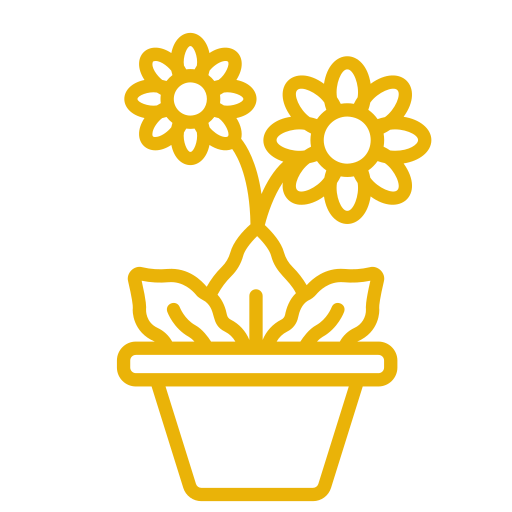
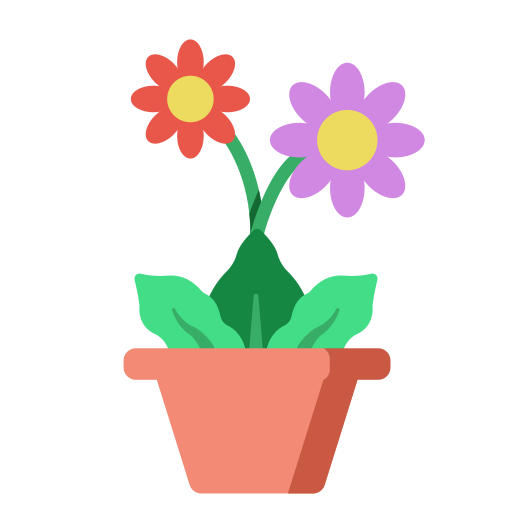
added new images and redefined variables for products

diff --git a/Cvećara/dist/index.html b/Cvećara/dist/index.html
@@ -53,7 +53,7 @@
                     <div id="productContainer" class="flex pt-5 pl-5 pr-5 md:w-[90%] lg:w-[55%] flex-row gap-3 justify-center items-center">
                         <div class="product w-[45%] lg:w-[31%] border border-white rounded-md">
                             <div class=" flex justify-center items-center">
-                                <img src="../images/rose-product.png" alt="" class="h-[2.5rem] lg:h-[4rem] mt-5">
+                                <img src="../images/rose (1).png" alt="" class="h-[2.5rem] lg:h-[4rem] mt-5">
                             </div>
                             <div>
                                 <h1 class="name text-center text-white font-semibold mt-2">

diff --git a/Cvećara/dist/script.js b/Cvećara/dist/script.js
@@ -164,7 +164,7 @@ function handleProductSelection(productName) {
     
     const productNameLabel = document.createElement('label');
     productNameLabel.textContent = productName.charAt(0).toUpperCase() + productName.slice(1); 
-    console.log(productName);
+
     const productCost = document.createElement('span');
     productCost.textContent = '500 din'; 
 
